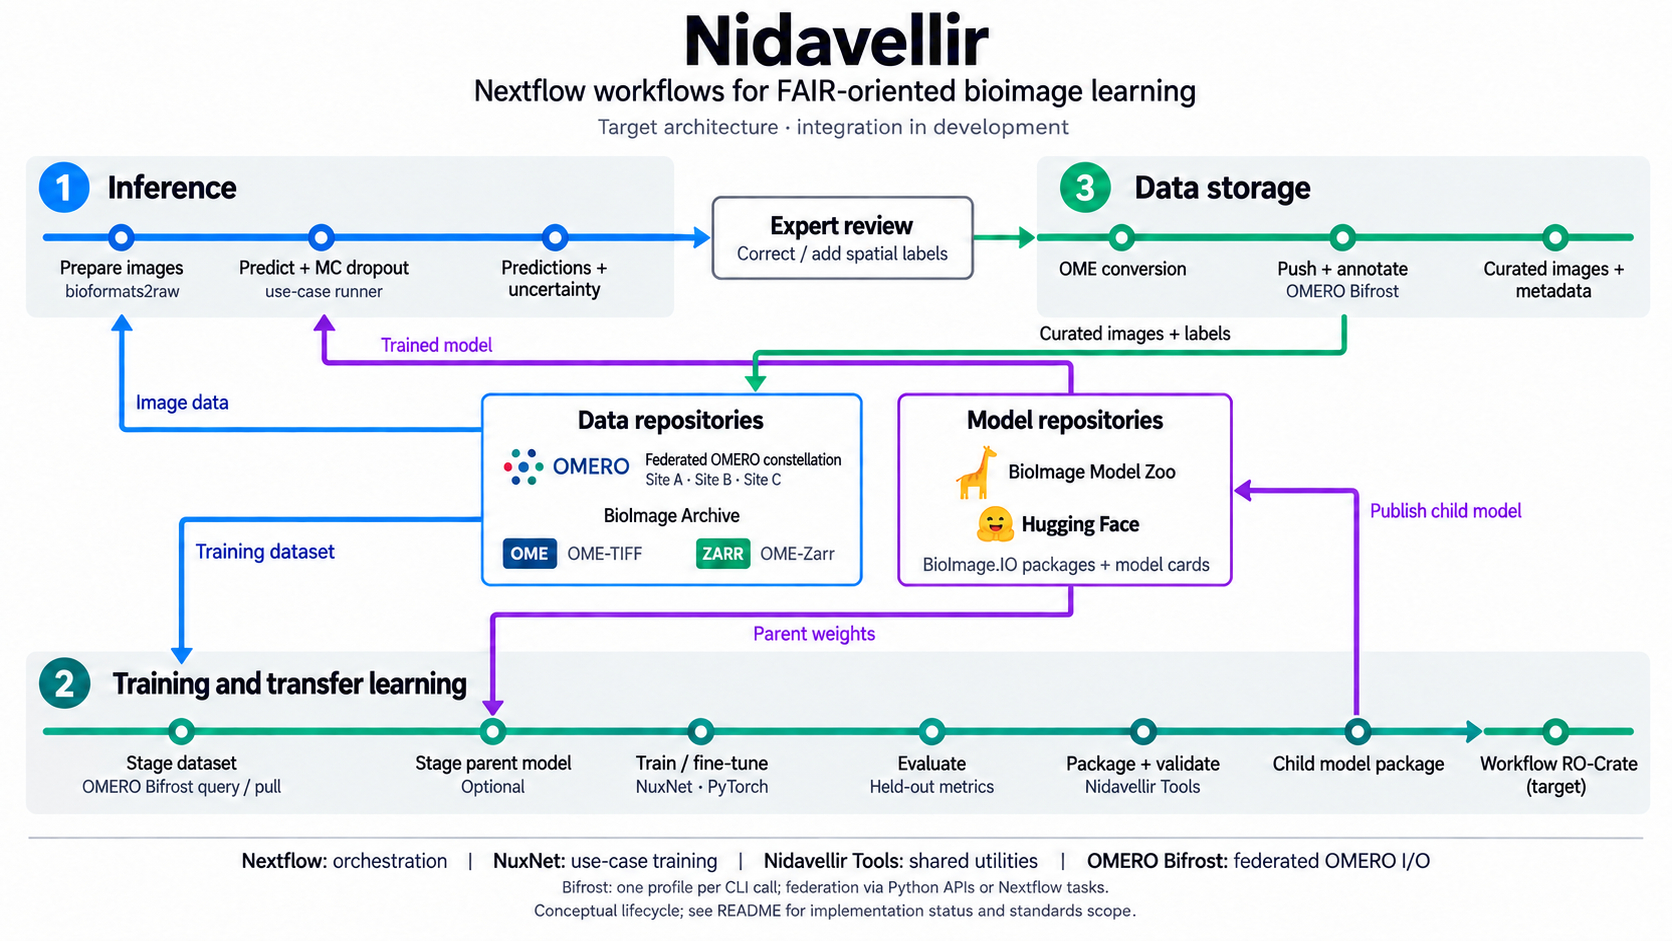
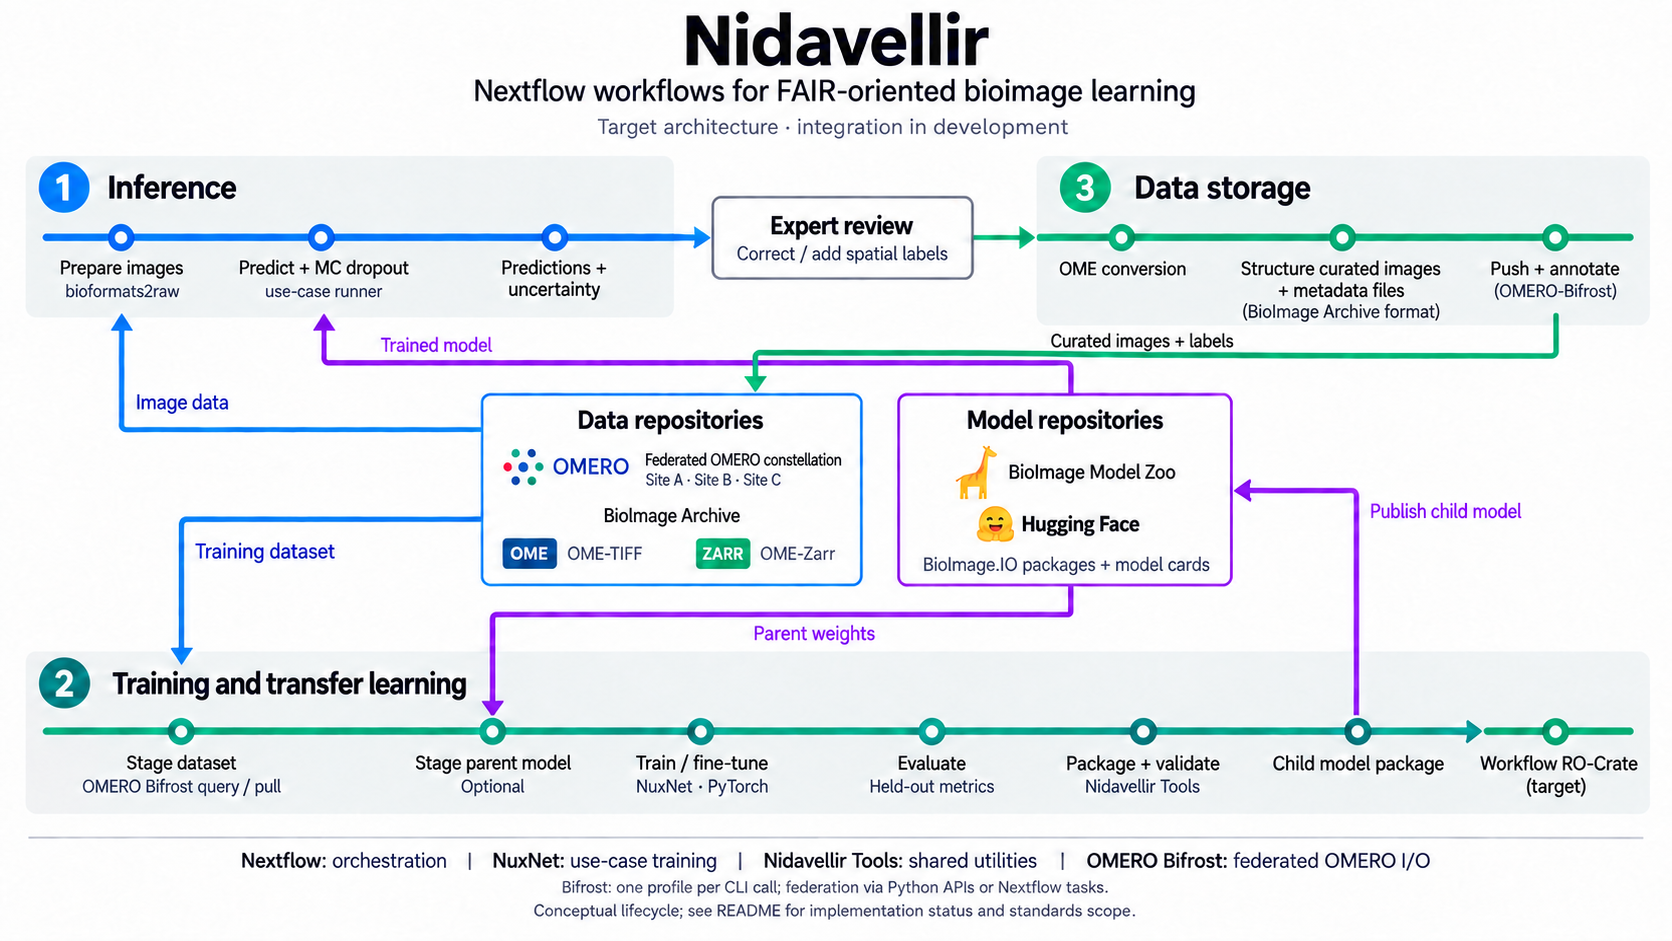
docs: structure curated data before OMERO Bifrost upload in abstract

diff --git a/docs/images/nidavellir-graphical-abstract.md b/docs/images/nidavellir-graphical-abstract.md
@@ -1,5 +1,29 @@
 # Graphical abstract
 
+## Storage-step ordering update
+
+Subworkflow 3 now shows OME conversion, then structure curated images and metadata
+files in BioImage Archive format, then push and annotate with OMERO-Bifrost.
+The repository return connector leaves the final push step. Other workflows and
+connections are unchanged. This remains a target-architecture illustration.
+
+Built-in image-generation edit prompt:
+
+```text
+Edit ONLY subworkflow "3 Data storage" in the top right of this image. Preserve ALL other content, positions, style, logos, arrows, and labels exactly.
+The THREE green stations must now read LEFT TO RIGHT:
+1. "OME conversion" (unchanged).
+2. "Structure curated images + metadata files (BioImage Archive format)" — use exactly these words, wrapped into readable lines below the MIDDLE station, for example:
+"Structure curated images"
+"+ metadata files"
+"(BioImage Archive format)"
+3. "Push + annotate" with sublabel "(OMERO-Bifrost)" — this is now the LAST, rightmost station.
+Remove old middle label Push + annotate and old final label Curated images + metadata; do not duplicate them.
+Move the SOURCE of the green return connector to the LAST/rightmost Push + annotate station (x1555 in reference), routed down just outside bottom of its gray lane then left to the same existing destination Data repositories. Preserve the return arrow label "Curated images + labels" and arrowhead at Data repositories. This output must originate from the final push step, not the newly renamed middle structure step.
+If needed increase height of ONLY storage lane slightly to fit the 3-line middle label, and route return path beneath it without touching text. Keep expert review entering the start of storage, and retain all other seven cross-panel connections and every training/inference element exactly unchanged.
+Maintain minimalist flat nf-core metro styling and black typography. No extra icons. Exact spelling BioImage Archive and OMERO-Bifrost.
+```
+
 ## Simplified nf-core-style redesign
 
 The current image uses flat metro-style workflow lines, inspired by the
